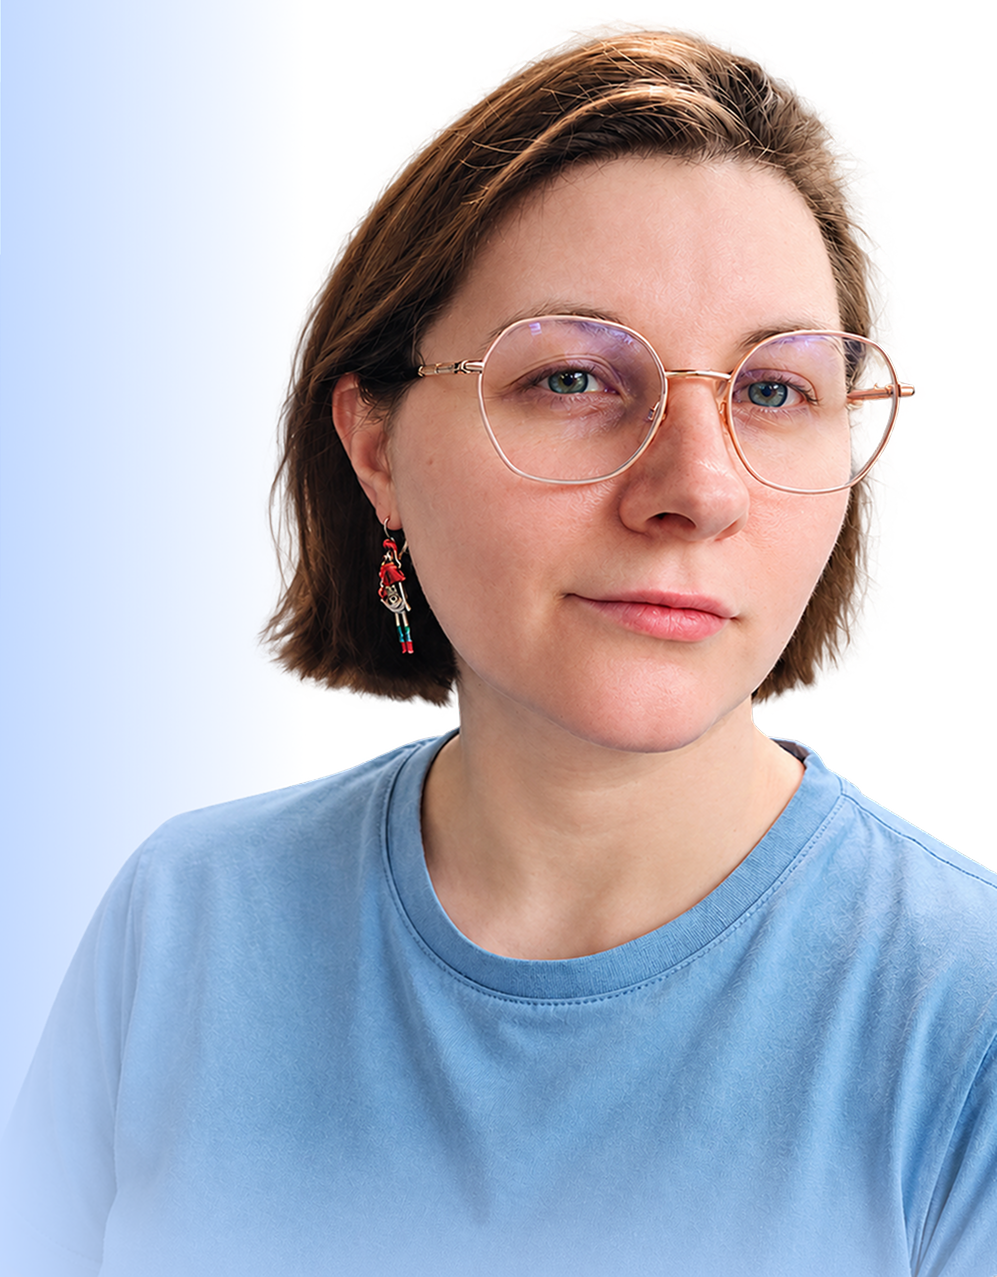
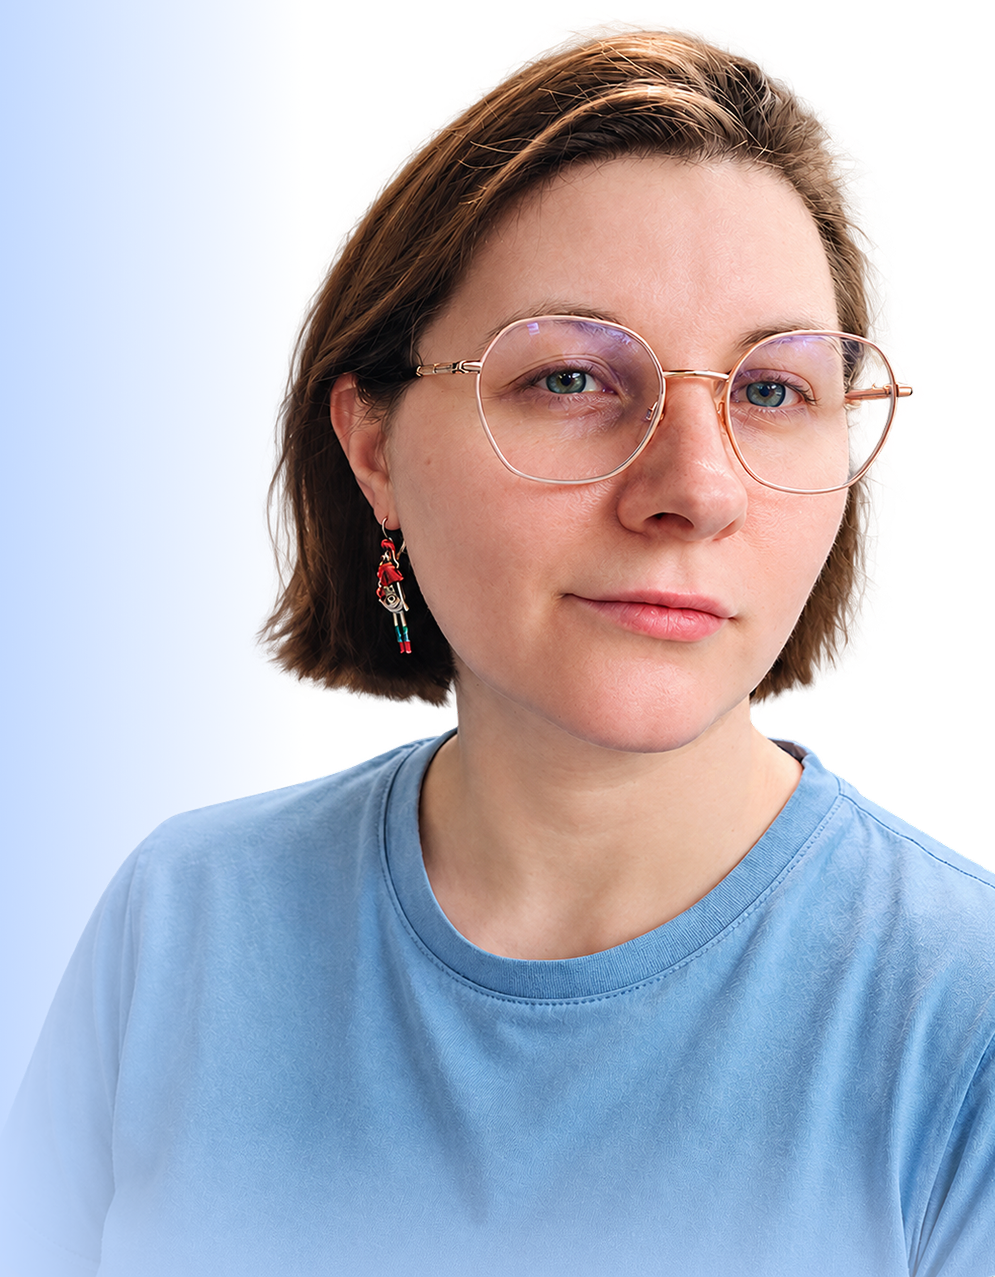
feat: done

diff --git a/styles.css b/styles.css
@@ -34,6 +34,7 @@
     --icon-size: 72px;
     --content-width: 1312px;
     --card-gap: 24px;
+    --pagination-gap: 6px;
     --card-padding: 32px;
     --card-radius: 24px;
     --section-space: 100px;
@@ -103,6 +104,7 @@ img {
     top: 0;
     z-index: 20;
     background: var(--color-white);
+    box-shadow: 0 4px 2px rgb(38 66 131 / 5%);
 }
 
 .container {
@@ -395,7 +397,7 @@ img {
     display: flex;
     align-items: center;
     justify-content: center;
-    gap: 2.5px;
+    gap: var(--pagination-gap);
     padding-inline: 3px;
 }
 
@@ -834,7 +836,7 @@ img {
     display: flex;
     align-items: center;
     justify-content: center;
-    gap: 2.5px;
+    gap: var(--pagination-gap);
 }
 
 .stories-swiper .swiper-pagination .swiper-pagination-bullet {
@@ -1056,6 +1058,7 @@ img {
         --form-columns: 1;
         --icon-size: 52px;
         --card-gap: 16px;
+        --pagination-gap: 3px;
         --card-padding: 24px;
         --section-space: 40px;
     }
@@ -1292,11 +1295,11 @@ img {
         display: flex;
         align-items: center;
         justify-content: center;
-        gap: 2.5px;
+        gap: var(--pagination-gap);
     }
 
     .certificates-swiper .swiper-pagination .swiper-pagination-bullet {
-        width: min(8px, calc((100% - 67.5px) / 28));
+        width: min(8px, calc((100% - 27 * var(--pagination-gap)) / 28));
         height: auto;
         aspect-ratio: 1;
         margin: 0;
@@ -1417,7 +1420,7 @@ img {
     .stories-swiper .swiper-pagination {
         right: var(--page-gutter);
         height: 20px;
-        gap: 2.5px;
+        gap: var(--pagination-gap);
     }
 
     .stories-swiper .swiper-pagination-bullet { width: 12px; height: 12px; }
@@ -1645,14 +1648,14 @@ img {
         display: flex;
         justify-content: center;
         align-items: center;
-        gap: 2.5px;
+        gap: var(--pagination-gap);
         bottom: 0;
         height: 16px;
         padding-inline: 3px;
     }
 
     .certificates-swiper .swiper-pagination .swiper-pagination-bullet {
-        width: min(9px, calc((100% - 67.5px) / 28));
+        width: min(9px, calc((100% - 27 * var(--pagination-gap)) / 28));
         height: auto;
         aspect-ratio: 1;
         margin: 0;

diff --git a/index.html b/index.html
@@ -37,7 +37,8 @@
                 <a class="nav__desktop-social" href="https://t.me/sugary_smell"><img src="assets/icons/tg.svg" alt="Telegram"></a>
                 <div class="nav__socials" aria-label="Социальные сети">
                     <a href="https://t.me/sugary_smell" aria-label="Telegram"><img src="assets/icons/menu-tg.svg" alt=""></a>
-                    <span class="nav__social-placeholder"><img src="assets/icons/menu-vk.svg" alt="ВКонтакте"></span>
+                    <span class="nav__social-placeholder"><a href="https://vk.ru/saccharine"><img src="assets/icons/menu-vk.svg" alt="ВКонтакте"></span></a>
+
                 </div>
             </nav>
             <button class="menu-toggle" type="button" aria-expanded="false" aria-controls="main-navigation" aria-label="Открыть меню">
@@ -705,8 +706,8 @@
             </div>
             <!-- Адреса профилей пока не предоставлены. -->
             <div class="footer__social">
-                <img src="assets/icons/footer-tg.svg" alt="Telegram" width="40" height="40">
-                <img src="assets/icons/vk.svg" alt="ВКонтакте" width="40" height="40">
+                <a href="https://t.me/sugary_smell"><img src="assets/icons/footer-tg.svg" alt="Telegram" width="40" height="40"></a>
+                <a href="https://vk.ru/saccharine"><img src="assets/icons/vk.svg" alt="ВКонтакте" width="40" height="40"></a>
             </div>
         </div>
     </footer>
